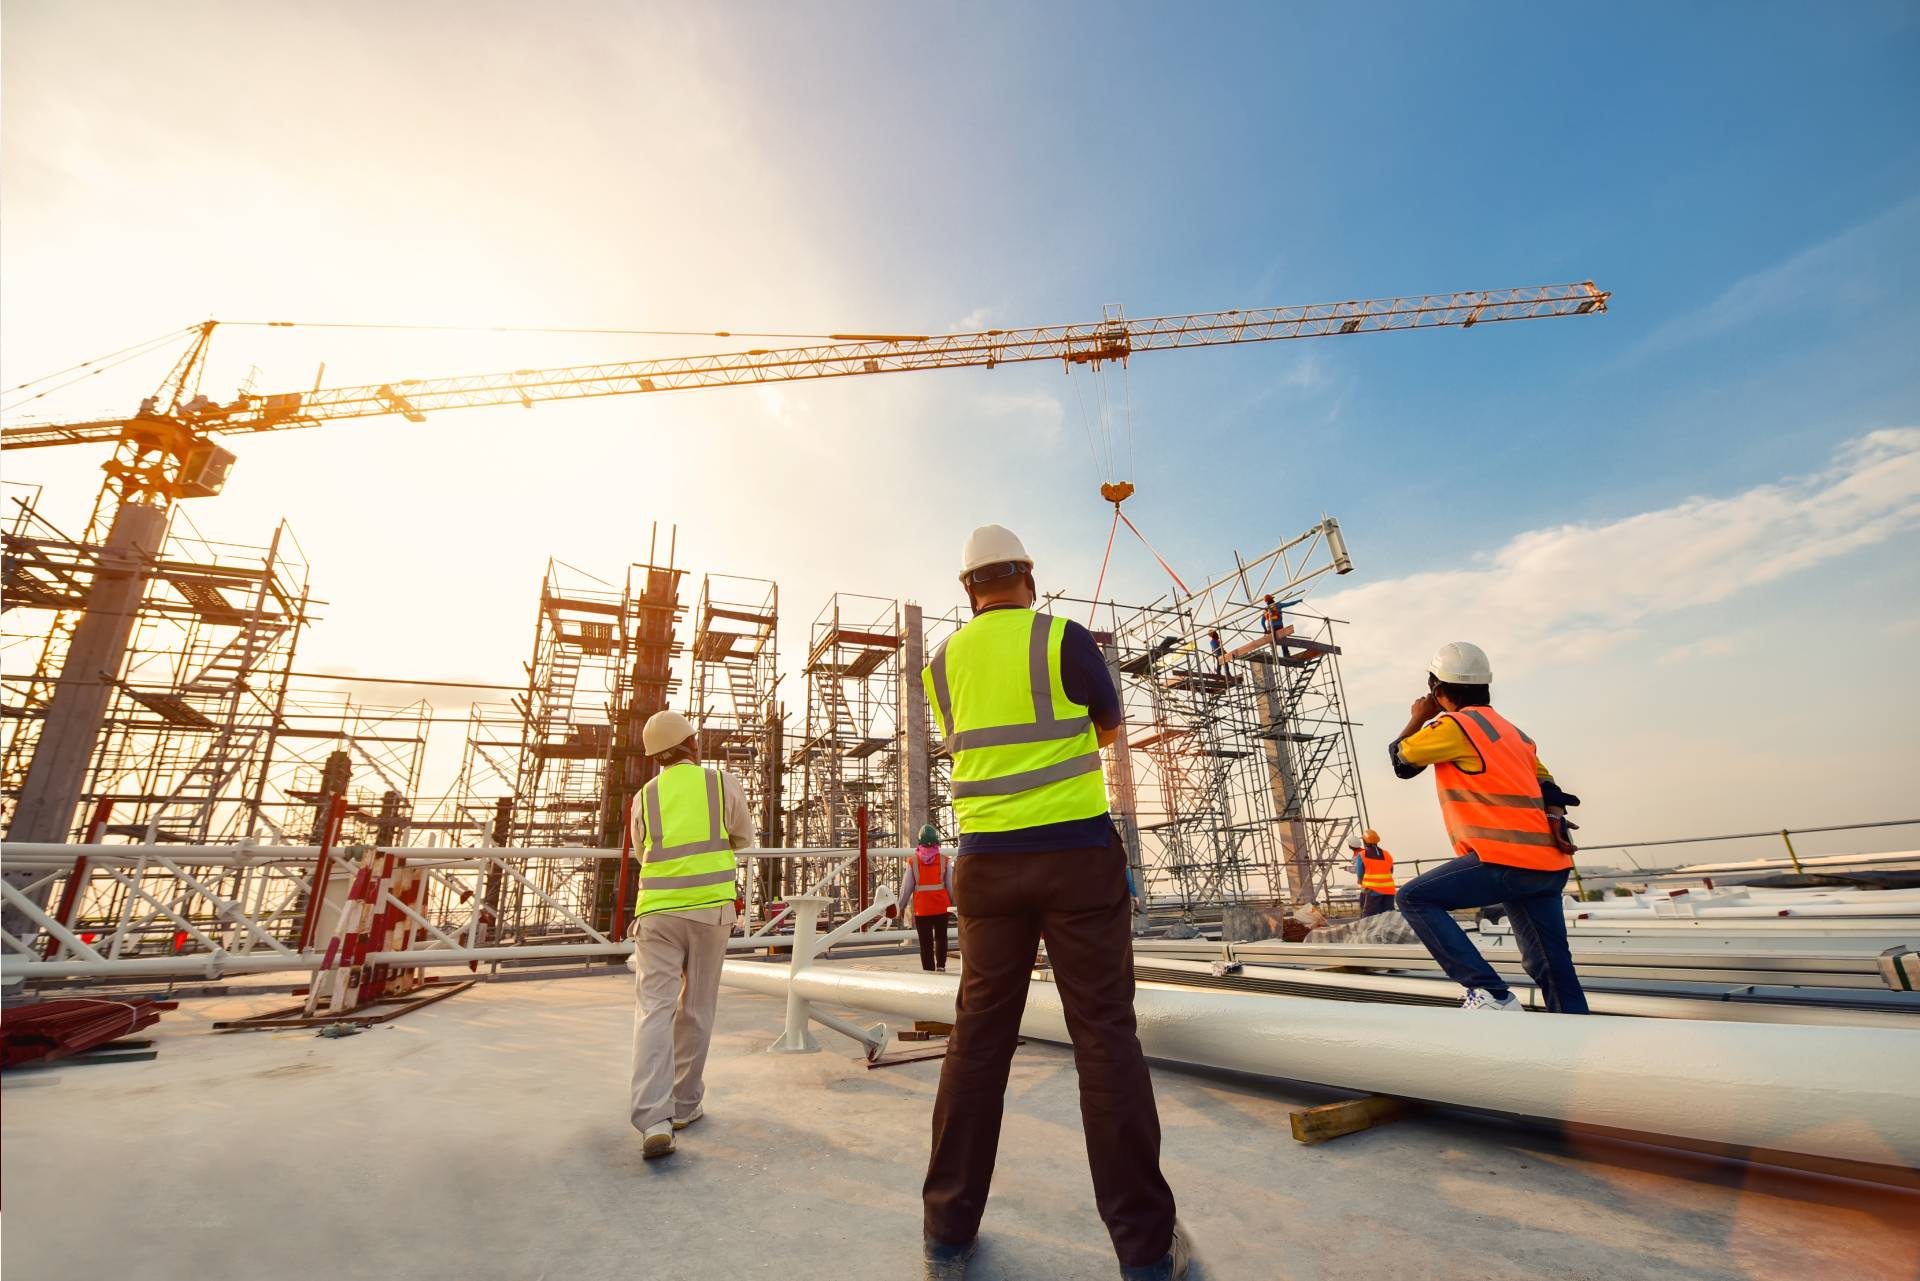
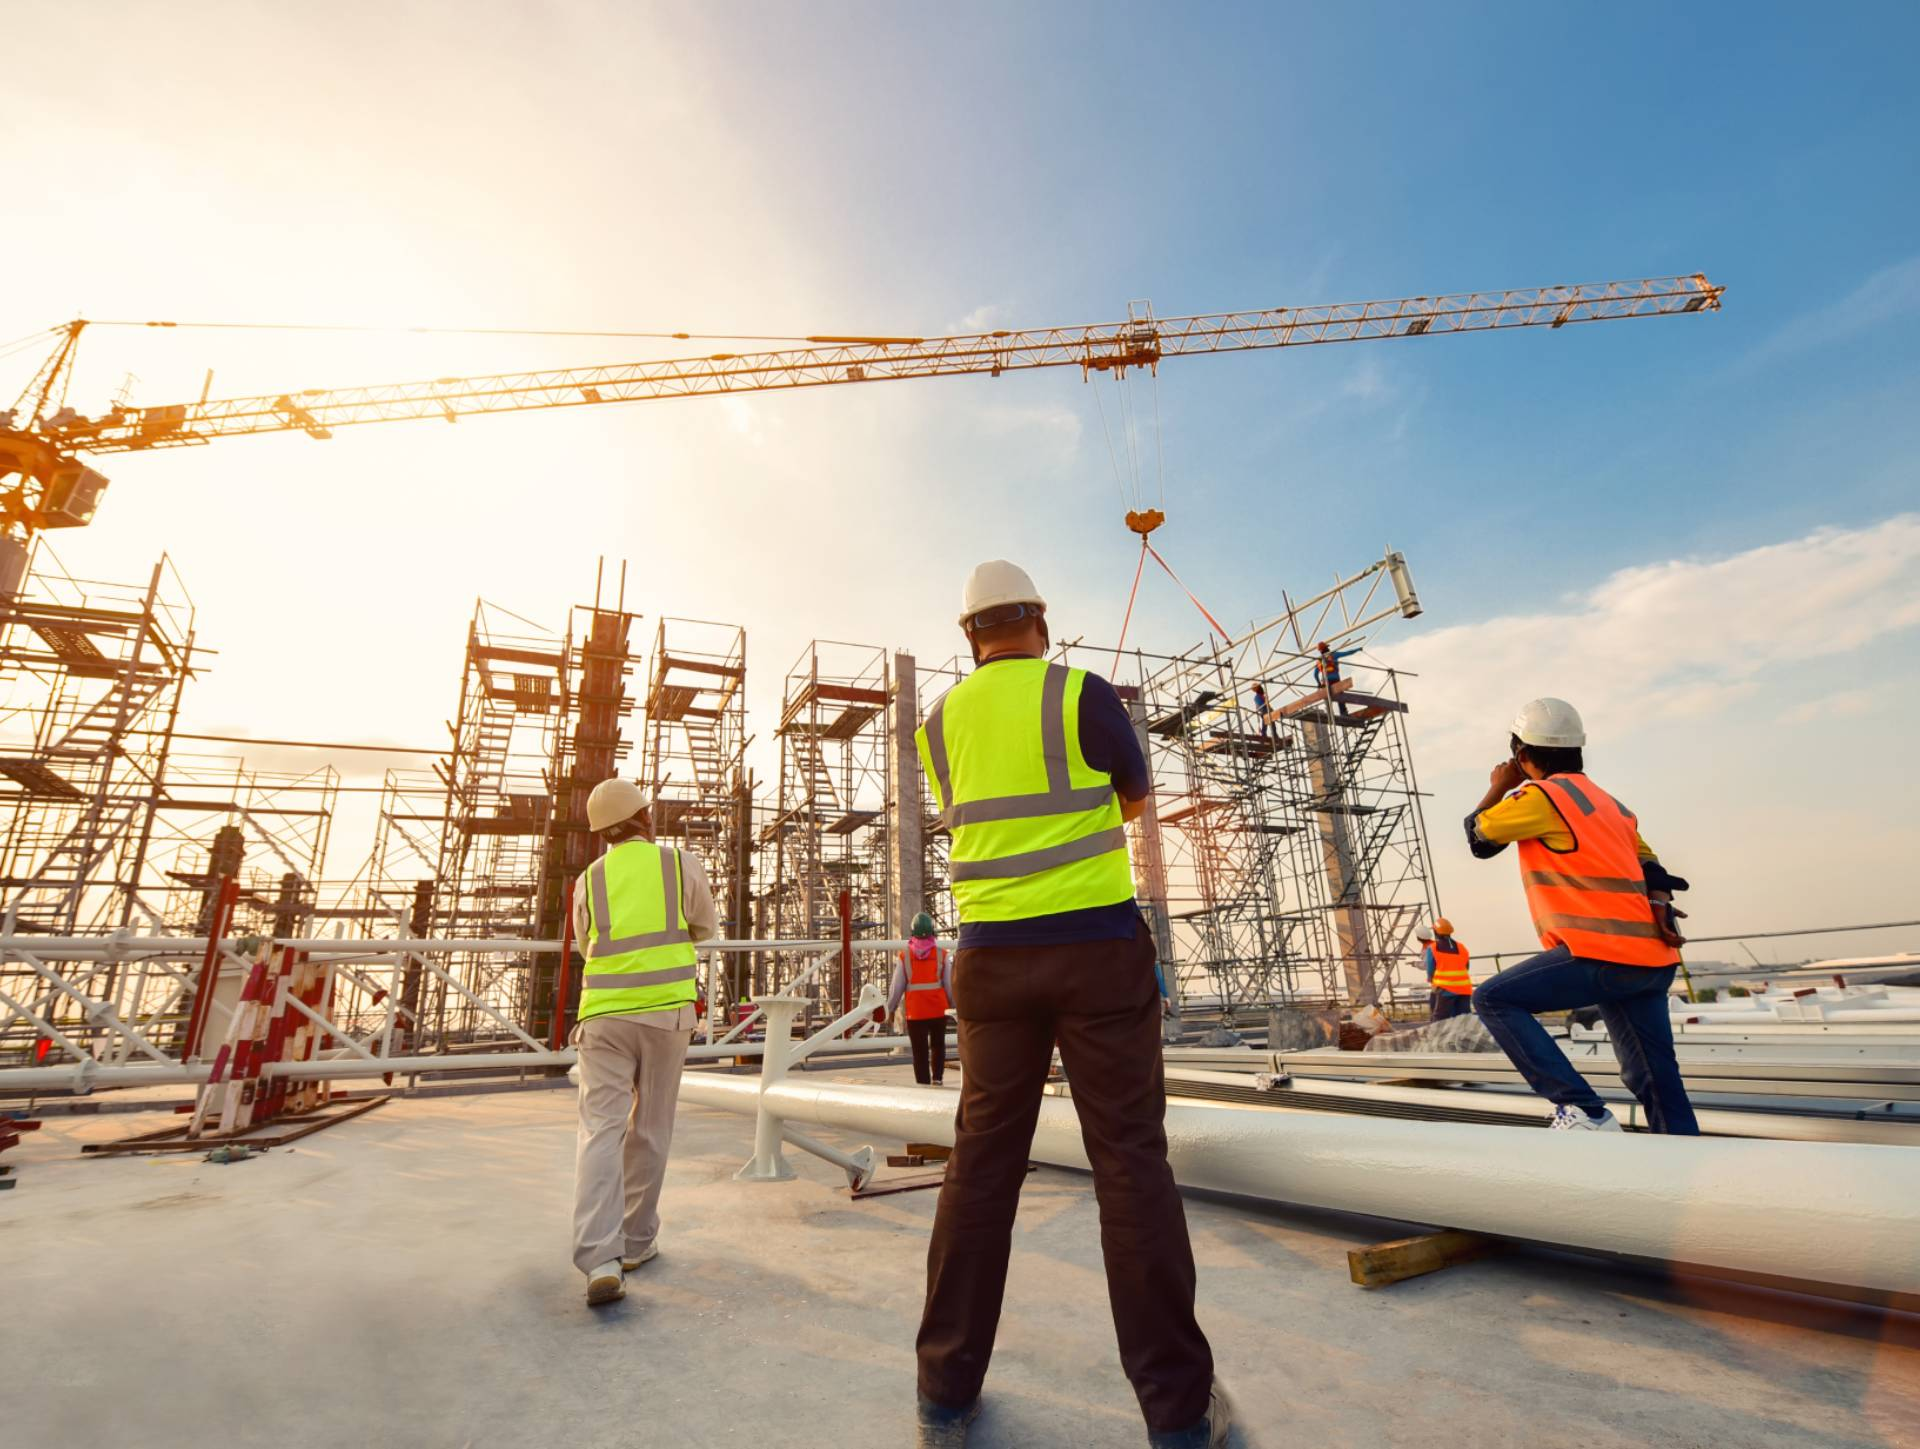
les images

diff --git a/components/pages/common/breadcrumb.jsx b/components/pages/common/breadcrumb.jsx
@@ -19,10 +19,10 @@ const BreadCrumb = ({ title, innerTitle, description, backgroundImage }) => {
   const baseStyles = {
     backgroundImage: `url(${backgroundImage})`,
     backgroundSize: 'cover',
-    backgroundPosition: 'center',
+    backgroundPosition: 'bottom',
     position: 'relative',
     overflow: 'hidden',
-    padding: '250px 20px',
+    padding: '300px 20px',
   };
 
   const mobileStyles = {

diff --git a/public/assets/sass/style.css b/public/assets/sass/style.css
@@ -4679,7 +4679,7 @@ Responsive Menu Css
     line-height: 21px;
   }
   .page__banner-content {
-    padding: 100px 0;
+    padding: 120px 0;
   }
   .page__banner-shape {
     display: none;
